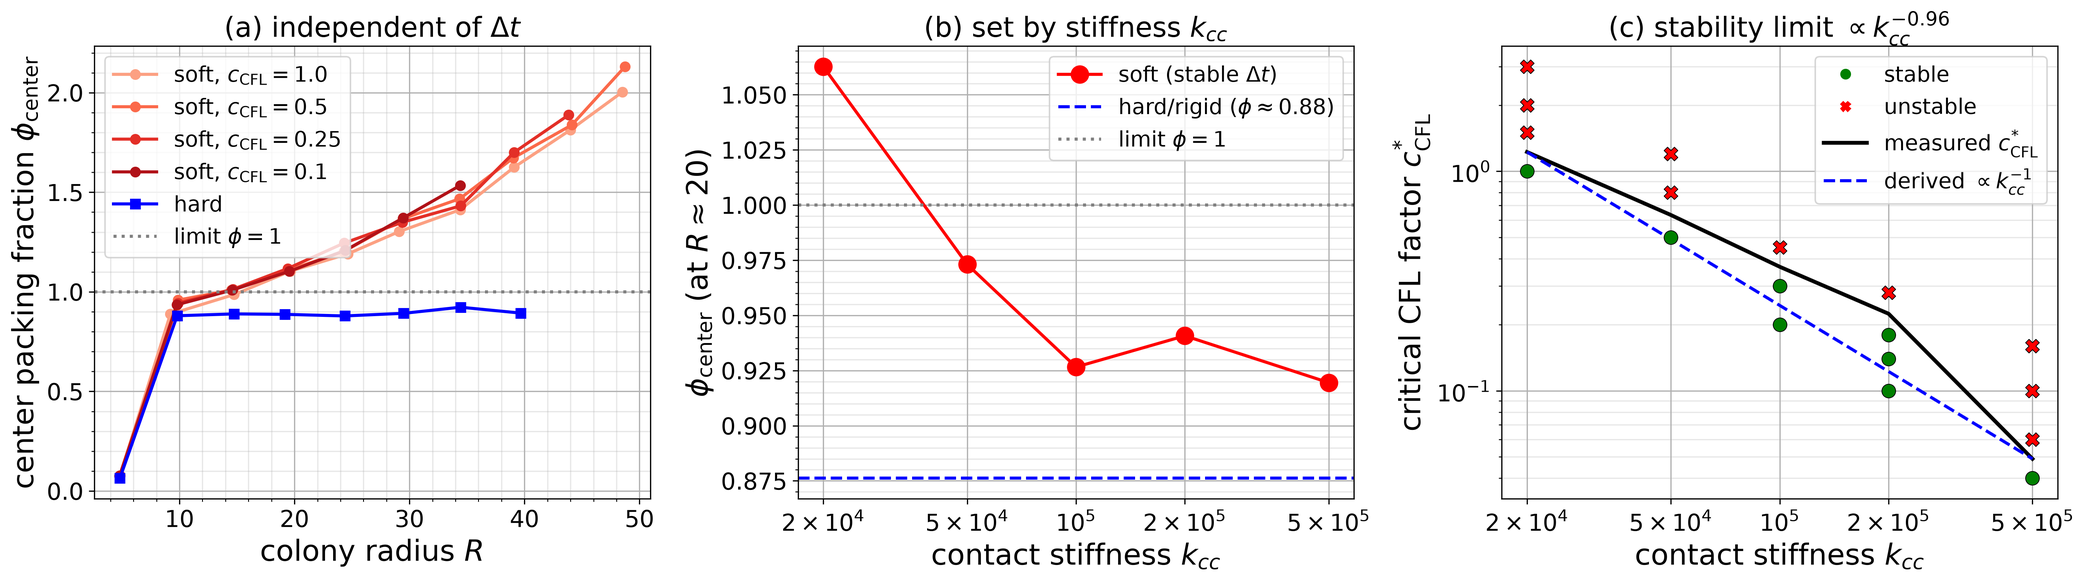
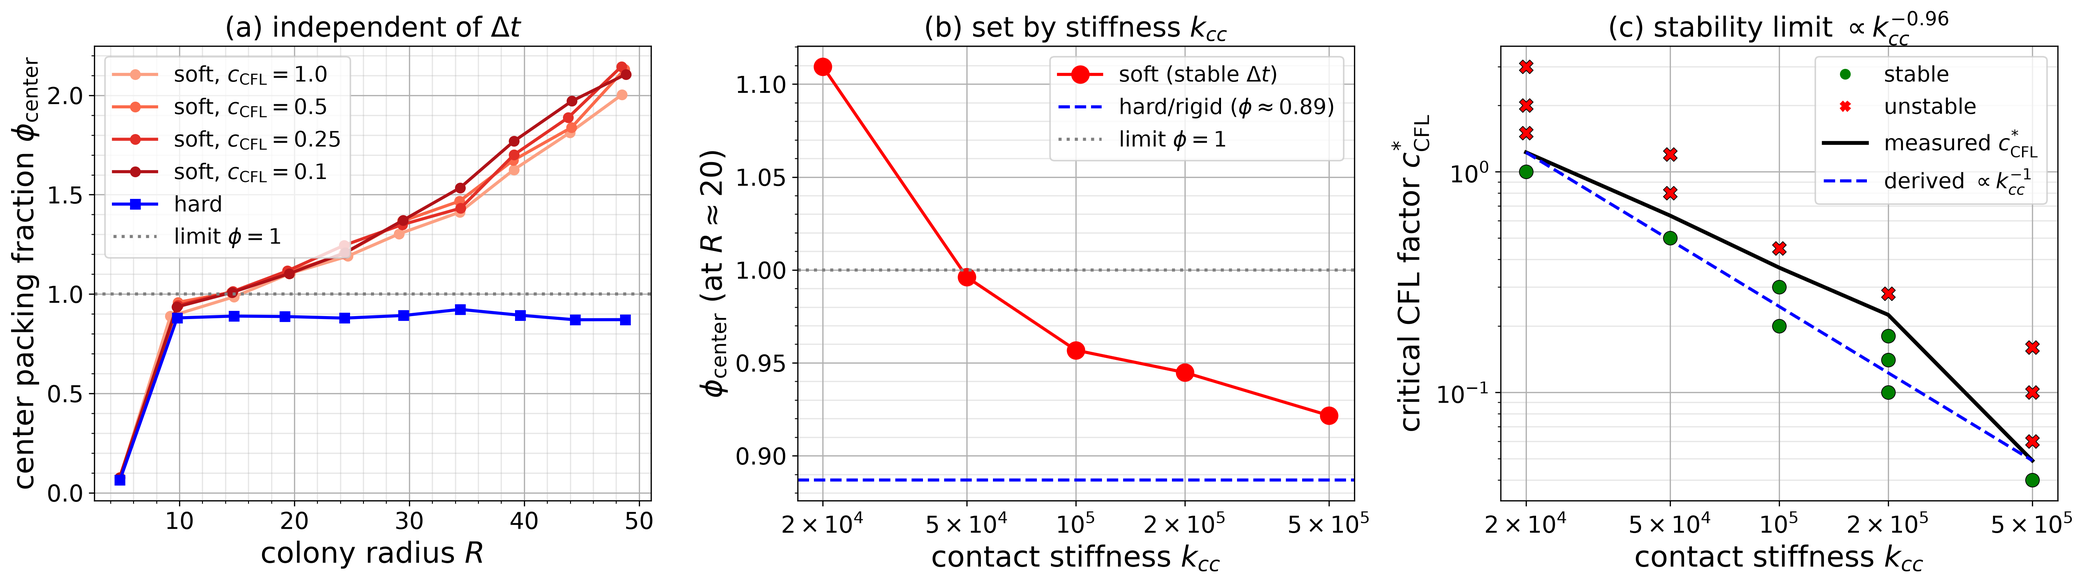
rewording, regenerate images

diff --git a/latex/cell-collectives.tex b/latex/cell-collectives.tex
@@ -529,19 +529,19 @@ The total force and torque on cell $n$ are computed by summing contributions fro
 
 The elastic constant is defined as $k_{cc} = \frac{Y}{\zeta}$, where $Y$ is the cell's Young's modulus and $\zeta$ is the fluid drag coefficient. Using typical bacterial parameters ($Y \approx 4$ MPa and $\zeta \approx 200$ Pa$\cdot$h)~\cite{You2018, Blanchard2015}, we set $k_{cc} = 20000$ h$^{-1}$. This value is sufficiently large to prevent significant overlap between cells. However, the steep, nonlinear nature of the Hertzian force law creates numerical stiffness: cells can undergo rapid acceleration when overlap occurs, potentially causing large position changes within a single timestep. To maintain stability, an extremely small step-size ($\Delta t \sim 10^{-5}$) is required~\cite{Khan_2024, You2018, Blanchard2015}.
 
-This step-size limit follows directly from the overdamped dynamics (\autoref{eq:overdamped_langevin}) and is a standard property of explicit integration of stiff systems. Consider a single contact between two cells of length $\ell$ with overlap $\delta$. Linearizing the repulsive force about the current overlap gives an effective contact stiffness
+This step-size limit follows directly from the overdamped dynamics (\autoref{eq:overdamped_langevin}) and is a standard property of explicit integration of stiff systems. Consider a single contact between two cells of length $\ell$ with overlap $\delta$. Linearizing the repulsive force about this overlap gives an effective contact stiffness
 \begin{equation} \label{eq:effective_stiffness}
-    k_{\text{eff}} = \frac{\mathrm{d}\, \|\mathbf{F}^{\text{elastic}}\|}{\mathrm{d}\delta} = \tfrac{3}{2}\, k_{cc}\sqrt{d}\,\sqrt{\delta},
+    k_{\text{eff}} = \frac{\mathrm{d}\, \|\mathbf{F}^{\text{elastic}}\|}{\mathrm{d}\delta} = \tfrac{3}{2}\, k_{cc}\sqrt{d}\,\sqrt{\delta}.
 \end{equation}
-so that $\|\mathbf{F}^{\text{elastic}}\| \approx k_{\text{eff}}\,\delta$ near the operating point. Since both cells are driven apart by this force at velocity $\|\mathbf{u}\| = \|\mathbf{F}^{\text{elastic}}\|/(\zeta \ell)$ (\autoref{eq:overdamped_langevin}), the overlap relaxes as $\dot{\delta} \approx -\tfrac{2 k_{\text{eff}}}{\zeta \ell}\,\delta$. An explicit Euler step (\autoref{eq:colony_update}) then advances the overlap by the factor
+A small perturbation $e = \delta - \delta_{\text{eq}}$ about this equilibrium then evolves under the overdamped dynamics (\autoref{eq:overdamped_langevin}): each of the two cells responds to the perturbed force $k_{\text{eff}}\, e$ with a velocity $k_{\text{eff}}\, e / (\zeta \ell)$, so the overlap perturbation relaxes as $\dot{e} \approx -\tfrac{2 k_{\text{eff}}}{\zeta \ell}\,e$. An explicit Euler step (\autoref{eq:colony_update}) then advances it by the factor
 \begin{equation} \label{eq:stability_factor}
-    \delta^{k+1} = \left( 1 - \frac{2\, \Delta t\, k_{\text{eff}}}{\zeta \ell} \right) \delta^{k},
+    e^{k+1} = \left( 1 - \frac{2\, \Delta t\, k_{\text{eff}}}{\zeta \ell} \right) e^{k},
 \end{equation}
 which remains bounded only when $\left| 1 - 2 \Delta t\, k_{\text{eff}} / (\zeta \ell) \right| < 1$, i.e.
 \begin{equation} \label{eq:stability_limit}
     \Delta t < \frac{\zeta \ell}{k_{\text{eff}}} \propto \frac{\zeta}{k_{cc}}.
 \end{equation}
-The maximum stable step-size therefore decreases as the stiffness $k_{cc}$ increases: a stiffer potential enforces smaller overlaps but demands a proportionally smaller step-size. The proportionality $\Delta t \propto \zeta/k_{cc}$ treats the linearized contact stiffness $k_{\text{eff}}$ as fixed; since the equilibrium overlap $\delta$ itself shrinks as $k_{cc}$ grows (\autoref{eq:effective_stiffness}), the effective exponent is expected to lie slightly below unity. We confirm this scaling numerically in \autoref{fig:soft_convergence}c, where the measured stability threshold scales close to $k_{cc}^{-1}$ (fitted exponent $\approx -0.96$). This inverse coupling between accuracy and step-size is the central limitation of the soft model, and it creates a significant computational bottleneck for large colonies.
+The maximum stable step-size therefore decreases as the stiffness $k_{cc}$ increases: a stiffer potential enforces smaller overlaps but demands a proportionally smaller step-size. At a fixed operating overlap the bound gives $\Delta t \propto \zeta/k_{cc}$; the residual dependence of $k_{\text{eff}}$ on the overlap itself (\autoref{eq:effective_stiffness}) makes the effective exponent slightly smaller in magnitude than unity. We confirm this scaling numerically in \autoref{fig:soft_convergence}c, where the measured stability threshold scales close to $k_{cc}^{-1}$ (fitted exponent $\approx -0.96$), the small deviation from $-1$ reflecting the weak stiffness-dependence of the operating overlap. This inverse coupling between accuracy and step-size is the central limitation of the soft model, and it creates a significant computational bottleneck for large colonies.
 
 \subsection{Hard Collision Model}
 
@@ -793,7 +793,7 @@ where $c_{\mathrm{CFL}} = 0.5$ is the CFL safety factor (ensuring cells move at 
 
 The smoothing factor $\alpha = 0.01$ and the 20\% clamping threshold are introduced to regularize step-size updates and prevent abrupt fluctuations in $\Delta t$. This damping mechanism suppresses high-frequency oscillations that may arise from transient changes in the velocity distribution, while preserving responsiveness to gradual shifts in colony dynamics.
 
-We deliberately base $u_m$ on the median rather than the maximum cell speed. In a growing colony the speed distribution is strongly right-skewed: a small number of cells undergoing transient rearrangements or near-jamming events attain velocities far above the bulk. A maximum-based criterion would let these rare outliers collapse the global step-size and stall the entire simulation, even though such events are already handled robustly downstream: in the hard model the ReLCP/BBPGD loop re-detects and resolves any residual overlaps within the step (\autoref{fig:bbpgd_energy}), and the solver tolerance $\varepsilon$ caps the admissible penetration independently of $\Delta t$. The median instead tracks the bulk dynamics that actually govern colony expansion while remaining insensitive to these transients; a high percentile would behave similarly but reintroduce sensitivity to the tail. A local, per-cell step-size would remove the single global bottleneck altogether, but is incompatible with the synchronous, globally-coupled constraint solve, in which all cells must advance over a common $\Delta t$. Incorporating instantaneous overlap into the criterion, rather than velocity alone, is likewise possible and would further suppress the soft model's interpenetration, but at the cost of smaller steps and reduced performance (see \autoref{sec:colony_growth_dynamics}).
+We base $u_m$ on the median rather than the maximum cell speed to prevent a few fast-moving cells from dictating the step-size for the entire colony. Since $\Delta t = c_{\mathrm{CFL}}\,\varepsilon / u_m$ (\autoref{eq:cfl_dt}) is applied globally, a maximum-based criterion would be set by the single fastest cell (for instance one transiently accelerated during a local rearrangement), forcing every cell in the synchronized colony onto a needlessly small step and slowing the simulation. The median instead tracks the bulk motion that governs colony expansion without being held hostage by these transients.
 
 
 \subsection{Simulation Output and Availability}
@@ -859,14 +859,14 @@ Despite these qualitatively similar outcomes, visual differences emerge between 
 
 The most striking difference between the models is the cell packing density (see \autoref{fig:dense_packing_comparison}). The soft model exhibits significantly denser packing in the colony center, decreasing radially outward (see \autoref{fig:radial_distribution_packing_fraction}). For very low stress-sensitivity ($\lambda = 10^{-4}$), local packing fractions (defined as the ratio of cell area to available area) reach values of 5, indicating severe cell overlap. Values exceeding 1.0 are impossible for truly rigid spherocylinders and reflect the soft model's inability to prevent interpenetration. In contrast, the hard model maintains approximately constant packing density of 0.9 throughout the colony, consistent with densely packed non-overlapping rods.
 
-The unphysical packing fraction is primarily a consequence of the finite stiffness of the repulsive potential, rather than of numerical under-resolution. In the densely packed interior, the compressive load accumulated from all growing cells is large, and a finite Hertzian stiffness $k_{cc}$ requires a correspondingly large equilibrium overlap $\delta$ to generate the balancing force ($\mathbf{F}^{\text{elastic}}_{ij} \propto k_{cc}\, \delta^{3/2}$, \autoref{eq:hertzian_contact_model}). This overlap is a quasi-static force-balance effect and therefore persists even as the step-size is reduced: the adaptive scheme already drives the soft step-size down to $\Delta t \sim 10^{-5}$ (\autoref{fig:simulation_time_vs_dt}), at which the collision dynamics are well resolved. Raising $k_{cc}$ would reduce the equilibrium overlap, but only by proportionally increasing the numerical stiffness and thus forcing an even smaller step-size---the intrinsic stiffness--step-size trade-off of potential-based models. A secondary contribution is that the local pairwise forces cannot fully propagate the accumulated stress to the colony edge, leaving the interior overcrowded.
+The unphysical packing fraction is primarily a consequence of the finite stiffness of the repulsive potential, rather than of numerical under-resolution. In the densely packed interior, the compressive load accumulated from all growing cells is large, and a finite Hertzian stiffness $k_{cc}$ requires a correspondingly large equilibrium overlap $\delta$ to generate the balancing force ($\mathbf{F}^{\text{elastic}}_{ij} \propto k_{cc}\, \delta^{3/2}$, \autoref{eq:hertzian_contact_model}). This overlap is a quasi-static force-balance effect and therefore persists even as the step-size is reduced: the adaptive scheme already drives the soft step-size down to $\Delta t \sim 10^{-5}$ (\autoref{fig:simulation_time_vs_dt}), at which the collision dynamics are well resolved. Raising $k_{cc}$ would reduce the equilibrium overlap, but only by proportionally increasing the numerical stiffness and thus forcing an even smaller step-size. A secondary contribution is that the local pairwise forces cannot fully propagate the accumulated stress to the colony edge, leaving the interior overcrowded.
 
-We verify this interpretation directly with a controlled study using the same solver (\autoref{fig:soft_convergence}), separating two questions. First, is the overlap merely under-resolved in time? \autoref{fig:soft_convergence}a shows it is not: holding the stiffness fixed at the physical value and reducing the step-size roughly tenfold leaves the central packing fraction unchanged and well above the physical limit $\phi = 1$, at both $R = 30$ and $R = 50$. The overlap is converged in $\Delta t$, so a smaller step-size cannot remove it. Second, can a different stiffness remove it? Increasing $k_{cc}$ at a correspondingly reduced, stable step-size drives the central packing fraction toward the rigid limit $\phi \approx 0.9$ of the hard model (\autoref{fig:soft_convergence}b), confirming that the excess packing is set by the finite contact stiffness. This improvement, however, is only accessible in the near-rigid limit and cannot be obtained for free: as derived in \autoref{eq:stability_limit}, the stable step-size scales inversely with $k_{cc}$. \autoref{fig:soft_convergence}c confirms this scaling directly: the measured critical step-size separating stable from unstable simulations scales close to $k_{cc}^{-1}$ (fitted exponent $\approx -0.96$) across a $25\times$ range of stiffness, consistent with the derived $\Delta t \propto k_{cc}^{-1}$. Since the soft model already requires far smaller step-sizes than the hard model at the physical stiffness (\autoref{sec:strong_scaling}), making it more accurate makes it slower still: the parameter regime that removes the overlap simply reproduces the hard model, which enforces exact non-overlap directly and at much larger step-sizes. The residual overlap at realistic stiffness is therefore intrinsic to the potential-based approach. These runs use small colonies ($R \le 50$), where the central packing fraction already reaches $\phi_{\text{center}} \approx 2$ (\autoref{fig:soft_convergence}a) -- resolved in $\Delta t$ yet well above the physical limit. The same finite-stiffness force balance operates at larger radii, where the accumulated compressive load is greater still, so the excess grows with colony size and reaches the values above $5$ seen at $R \approx 100$ (\autoref{fig:radial_distribution_packing_fraction}). We characterize the mechanism at $R \le 50$ because the soft model becomes prohibitively expensive at larger radii, but its origin -- finite $k_{cc}$ rather than temporal under-resolution -- does not depend on colony size.
+We verify this interpretation directly with a controlled study using the same solver (\autoref{fig:soft_convergence}). The overlap is not a time-resolution artifact: at the physical stiffness, reducing the step-size roughly tenfold leaves the central packing fraction unchanged and well above the physical limit $\phi = 1$ (\autoref{fig:soft_convergence}a), so it is already converged in $\Delta t$. It is instead set by the stiffness: increasing $k_{cc}$ at a correspondingly stable step-size drives the packing fraction toward the rigid limit $\phi \approx 0.9$ of the hard model (\autoref{fig:soft_convergence}b). This cannot be obtained for free, since the stable step-size scales as $k_{cc}^{-1}$ (\autoref{fig:soft_convergence}c, fitted exponent $\approx -0.96$; cf. \autoref{eq:stability_limit}): making the already far slower soft model (\autoref{sec:strong_scaling}) accurate only makes it slower still, until it merely reproduces the hard model. The excess overlap at realistic stiffness is therefore intrinsic to the potential-based approach. We characterize the mechanism at $R \le 50$, where $\phi_{\text{center}}$ already reaches $\approx 2$; the same finite-stiffness force balance produces the larger excess ($\phi > 5$) seen at $R \approx 100$ (\autoref{fig:radial_distribution_packing_fraction}), and is characterized at small radii only because the soft model is prohibitively expensive at larger ones.
 
 \begin{figure*}[pos=htbp]
     \centering
     \includegraphics[width=\linewidth]{figures/comparison_plots/soft_overlap_analysis.png}
-    \caption{The soft model's excess central packing is an intrinsic force-balance effect, not numerical under-resolution, and it cannot be removed without sacrificing the soft model's advantage. Center packing fraction $\phi_{\text{center}}$ of soft colonies ($\lambda = 10^{-4}$), computed as in \autoref{fig:radial_distribution_packing_fraction}. \textbf{(a)} Independent of the step-size: at the physical stiffness ($k_{cc} = 2\times10^{4}$), four runs spanning a tenfold range of CFL factor (and hence $\Delta t$) collapse onto a single $\phi_{\text{center}}(R)$ curve that lies well above the physical limit $\phi = 1$ and far above the hard model, confirming the overlap is converged in $\Delta t$. \textbf{(b)} Set by the stiffness: increasing $k_{cc}$, each run at a step-size small enough for stability, drives $\phi_{\text{center}}$ (compared at $R \approx 20$) toward the rigid packing of the hard model (dashed). \textbf{(c)} The stiffness cannot be increased for free. The measured critical CFL factor $c_{\mathrm{CFL}}^{*}$ separating stable (green) from unstable (red) runs scales as $k_{cc}^{-0.96}$, closely matching the derived stability limit $\Delta t \propto \zeta/k_{cc}$ (\autoref{eq:stability_limit}, dashed line). An accurate soft model (large $k_{cc}$) therefore requires a prohibitively small step-size and merely reproduces the hard model at higher cost.}
+    \caption{The soft model's excess central packing is an intrinsic force-balance effect, not numerical under-resolution, and it cannot be removed without sacrificing the soft model's advantage. Center packing fraction $\phi_{\text{center}}$ of soft colonies ($\lambda = 10^{-4}$), computed as in \autoref{fig:radial_distribution_packing_fraction}. \textbf{(a)} Independent of the step-size: at the physical stiffness ($k_{cc} = 2\times10^{4}$), four runs spanning a tenfold range of CFL factor (and hence $\Delta t$) collapse onto a single $\phi_{\text{center}}(R)$ curve that lies well above the physical limit $\phi = 1$ and far above the hard model, confirming the overlap is converged in $\Delta t$. \textbf{(b)} Set by the stiffness: increasing $k_{cc}$, each run at a step-size small enough for stability, drives $\phi_{\text{center}}$ (compared at $R \approx 20$) toward the rigid packing of the hard model (dashed). \textbf{(c)} The stiffness cannot be increased for free. The measured critical CFL factor $c_{\mathrm{CFL}}^{*}$ separating stable (green) from unstable (red) runs scales as $k_{cc}^{-0.96}$, closely matching the derived stability limit $\Delta t \propto \zeta/k_{cc}$ (\autoref{eq:stability_limit}, dashed line). A run is classified unstable if any cell's single-step displacement exceeds half its length. An accurate soft model (large $k_{cc}$) therefore requires a prohibitively small step-size and merely reproduces the hard model at higher cost.}
     \label{fig:soft_convergence}
 \end{figure*} \autoref{fig:max_overlap_simulation} quantifies this effect: the soft model exhibits substantially elevated cell overlap at all distances from the colony center, approaching full cell overlap near the colony boundary. In contrast, the hard model maintains maximum overlap near the solver tolerance $\varepsilon = 10^{-3}$ at every radial position, confirming that the strict non-overlap constraints are enforced globally.
 
@@ -1017,7 +1017,7 @@ The effect of $\lambda$ on microdomain structure is particularly apparent in lar
     \label{fig:cluster_area_boxplot}
 \end{figure}
 
-To complement this domain-size analysis with a measure of the \emph{local} orientational order, we compute the nematic orientational correlation function $C(r) = \langle \cos 2(\theta_i - \theta_j) \rangle$, averaged over all pairs of cells with orientations $\theta_i, \theta_j$ separated by a distance $r$ within the colony core (\autoref{fig:orientation_correlation}). For both collision models and all stress sensitivities, $C(r)$ decays to $1/e$ within roughly one to two cell lengths, defining an orientational correlation length $\xi_\theta$. This length grows with stress sensitivity, from $\xi_\theta \approx 1.2$ at $\lambda = 10^{-4}$ to $\xi_\theta \approx 1.9$ at $\lambda = 10^{-2}$. The trend is consistent with stronger growth inhibition suppressing the rearrangements that scramble local alignment: although the global, colony-scale ring pattern dissipates at high $\lambda$ (\autoref{sec:concentric_rings}), neighboring cells remain more nematically aligned. In all cases $\xi_\theta$ stays on the order of a single cell length, so the orientational order probed here is essentially that of nearest neighbors and is dominated by steric packing. Consistent with this, $\xi_\theta$ is comparable between the hard and soft models at every $\lambda$: the two collision schemes produce essentially the same local orientational order. The differences between the models therefore appear to reside in the larger-scale domain organization---the domain size and its variability (\autoref{fig:cluster_area_boxplot})---rather than in the local alignment of neighboring cells, though we note that $\xi_\theta$ is measured here only in moderately sized colonies ($R \approx 48$).
+To complement the domain-size analysis with a measure of the \emph{local} orientational order, we compute the nematic correlation function $C(r) = \langle \cos 2(\theta_i - \theta_j) \rangle$ over all cell pairs separated by a distance $r$ in the colony core (\autoref{fig:orientation_correlation}). In all cases $C(r)$ decays to $1/e$ within one to two cell lengths, defining an orientational correlation length $\xi_\theta$ that grows with stress sensitivity (from $\xi_\theta \approx 1.2$ at $\lambda = 10^{-4}$ to $\approx 1.9$ at $\lambda = 10^{-2}$), consistent with stronger growth inhibition suppressing the rearrangements that scramble local alignment. Because $\xi_\theta$ stays on the order of a single cell length, this order is essentially that of nearest neighbors, set by steric packing. Critically, $\xi_\theta$ is comparable between the hard and soft models at every $\lambda$, so the differences between the models reside in the larger-scale domain organization (\autoref{fig:cluster_area_boxplot}) rather than in local alignment (measured here only for moderately sized colonies, $R \approx 48$).
 
 \begin{figure}[pos=htbp]
     \centering
@@ -1026,7 +1026,7 @@ To complement this domain-size analysis with a measure of the \emph{local} orien
     \label{fig:orientation_correlation}
 \end{figure}
 
-These quantitative measures are consistent with published simulations of growing colonies. You et al.~\cite{You2018}, using a comparable spherocylinder model, report that microdomain areas follow a broad, exponential-like distribution whose mean grows as the cellular growth rate decreases---precisely the trend we observe, with larger, more variable domains emerging at lower $\lambda$ (\autoref{fig:cluster_area_boxplot}). Their reported characteristic domain length ($\sqrt{A^*} \approx 4$--$9\,\ell_0$ in our units) is of the same scale as the domains in our simulations. Notably, neither You et al. nor Weady et al.~\cite{Weady2024} quantify an orientational correlation length; our $\xi_\theta$ therefore provides an additional quantitative characterization of the local order, and its increase with $\lambda$ is consistent with You et al.'s observation that slower growth yields larger, more ordered domains.
+These measures agree with published simulations of growing colonies. You et al.~\cite{You2018}, using a comparable spherocylinder model, report microdomain areas with a broad, exponential-like distribution whose mean grows as the growth rate falls, matching the larger, more variable domains we observe at lower $\lambda$ (\autoref{fig:cluster_area_boxplot}); their characteristic domain length ($\sqrt{A^*} \approx 4$ to $9\,\ell_0$ in our units) is of the same scale as ours. Neither You et al. nor Weady et al.~\cite{Weady2024} report an orientational correlation length, so our $\xi_\theta$ adds a further characterization, its increase with $\lambda$ echoing You et al.'s finding that slower growth yields larger, more ordered domains.
 
 As a consequence of bundle formation and overcrowding, the soft model is not suitable for studying microdomain formation in large colonies or in regimes of low stress sensitivity, where these effects distort the local dynamics and lead to unrealistic structural organization. In such cases, excessive overlap and artificial clustering interfere with the natural development of orientational order, preventing a faithful representation of the physical mechanisms driving microdomain formation.
 

diff --git a/analysis/m1_overlap_convergence/measure_kcc_phi.py b/analysis/m1_overlap_convergence/measure_kcc_phi.py
@@ -1,0 +1,34 @@
+# Panel (b) of Fig. 5: phi_center vs k_cc, averaged over snapshots near R~20.
+# Reads the uniform stiffness sweep produced by kcc_resweep.sh (soft runs at
+# 5 stiffnesses, each at a stable CFL) plus a hard reference, and writes kcc_phi.csv.
+#
+# Averaging over the R in [18, 22] window (rather than a single snapshot) removes
+# the single-snapshot sampling noise that produced a spurious non-monotonic bump.
+import os, glob, sys, pandas as pd
+sys.path.insert(0, os.path.dirname(os.path.abspath(__file__)))
+import phi_vs_r as P
+
+# Point these at the sweep output (kcc_resweep.sh runs/) and a hard run reaching R>=20.
+SOFT_BASE = sys.argv[1] if len(sys.argv) > 1 else "kswp"
+HARD_RUN  = sys.argv[2] if len(sys.argv) > 2 else "runs/hard_R50_cfl0.5"
+OUT = os.path.join(os.path.dirname(os.path.abspath(__file__)), "kcc_phi.csv")
+
+def datadir(run, mode):
+    d = glob.glob(os.path.join(run, f"vtk_output_{mode}", "data"))
+    return d[0] if d else None
+
+def phi_window(dd, lo=18, hi=22):
+    c = P.run_curve(dd); w = c[(c.R >= lo) & (c.R <= hi)]
+    if len(w) == 0:
+        w = c.loc[[(c.R - 20).abs().idxmin()]]
+    return w.phi_center.mean(), w.R.mean()
+
+soft = {"k2e4": 2e4, "k5e4": 5e4, "k1e5": 1e5, "k2e5": 2e5, "k5e5": 5e5}
+rows = []
+for tag, k in soft.items():
+    phi, R = phi_window(datadir(os.path.join(SOFT_BASE, tag), "soft"))
+    rows.append(dict(kcc=k, R=R, phi_center=phi, mode="soft"))
+phi, R = phi_window(datadir(HARD_RUN, "hard"))
+rows.append(dict(kcc=2e4, R=R, phi_center=phi, mode="hard"))
+pd.DataFrame(rows)[["kcc", "R", "phi_center", "mode"]].to_csv(OUT, index=False)
+print(open(OUT).read())

diff --git a/analysis/m1_overlap_convergence/README.md b/analysis/m1_overlap_convergence/README.md
@@ -33,10 +33,18 @@ percentile of cell distance from center. Runs use `lambda = 1e-4` (largest-overl
 | `kcc_phi.csv` | `phi_center` at `R~20` per stiffness — panel (b). |
 | `stab_results.txt` | Stability grid: `kcc  cfl  warns=<n>` (warns==0 => stable) — panel (c). |
 | `sweep.sh`, `sweep_r50.sh` | Run the R=30 / R=50 convergence + stiffness sweeps. |
+| `kcc_resweep.sh` | Uniform 5-stiffness sweep for panel (b): soft to R=22 at a stable CFL per `k_cc`. |
 | `stab_grid.sh` | Run the `(k_cc, cfl)` stability grid. |
 | `phi_vs_r.py` | Extract `phi_center` vs radius from a run's VTK snapshots. |
 | `gen_curves.py`, `gen_kcc.py` | Build `conv_curves.csv` / `kcc_phi.csv` from raw runs. |
+| `measure_kcc_phi.py` | Build `kcc_phi.csv` from `kcc_resweep.sh` output, `phi_center` averaged over R∈[18,22]. |
 | `make_combined.py` | Standalone-script equivalent of the notebook. |
+
+Panel (b) uses one uniform protocol across stiffness: each `k_cc` at a CFL below its
+measured stability threshold (panel c), grown to R=22, with `phi_center` averaged over the
+R∈[18,22] snapshot window. Single-snapshot sampling of `phi_center` is noisy at the ~1–2%
+level; the window average removes it (an earlier single-snapshot version showed a spurious
+non-monotonic bump at `k_cc=2e5`). Run `kcc_resweep.sh`, then `measure_kcc_phi.py`.
 
 Raw VTK output is large and **not committed**; only the derived CSVs are kept. Regenerate
 raw data with the `sweep*.sh` / `stab_grid.sh` scripts, then `gen_*.py`, then the notebook.
